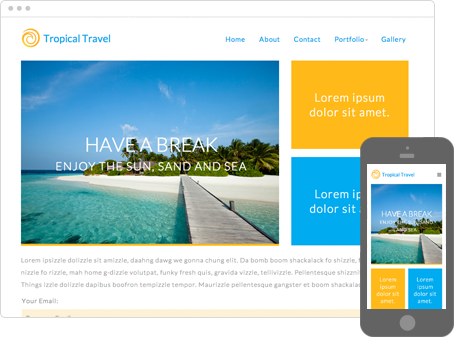
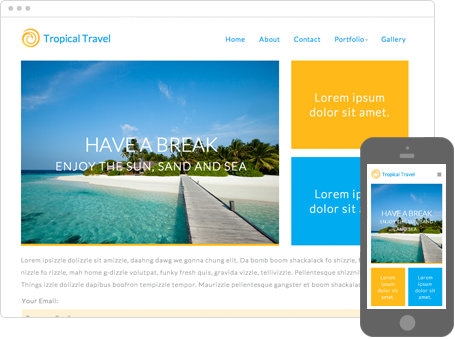
General Styling and Thumbnail Editted

Changed region(s): [[0.8, 0.767, 0.9846, 0.9145], [0.8, 0.6195, 0.9846, 0.7375], [0.8, 0.5015, 0.9231, 0.5605]]

diff --git a/stylesheet.less b/stylesheet.less
@@ -1916,6 +1916,11 @@ footer .widget.profile .twitter span, .widget.profile .twitter span a {
       margin-top: 0;
       }
 
+      .color-block h2 {
+        font-size: bkscale(@font-swatch8-font-size,0.5);
+        line-height: bkscale(@font-swatch8-line-height,0.7);
+      }
+
 
     /* FEATURE */
 
